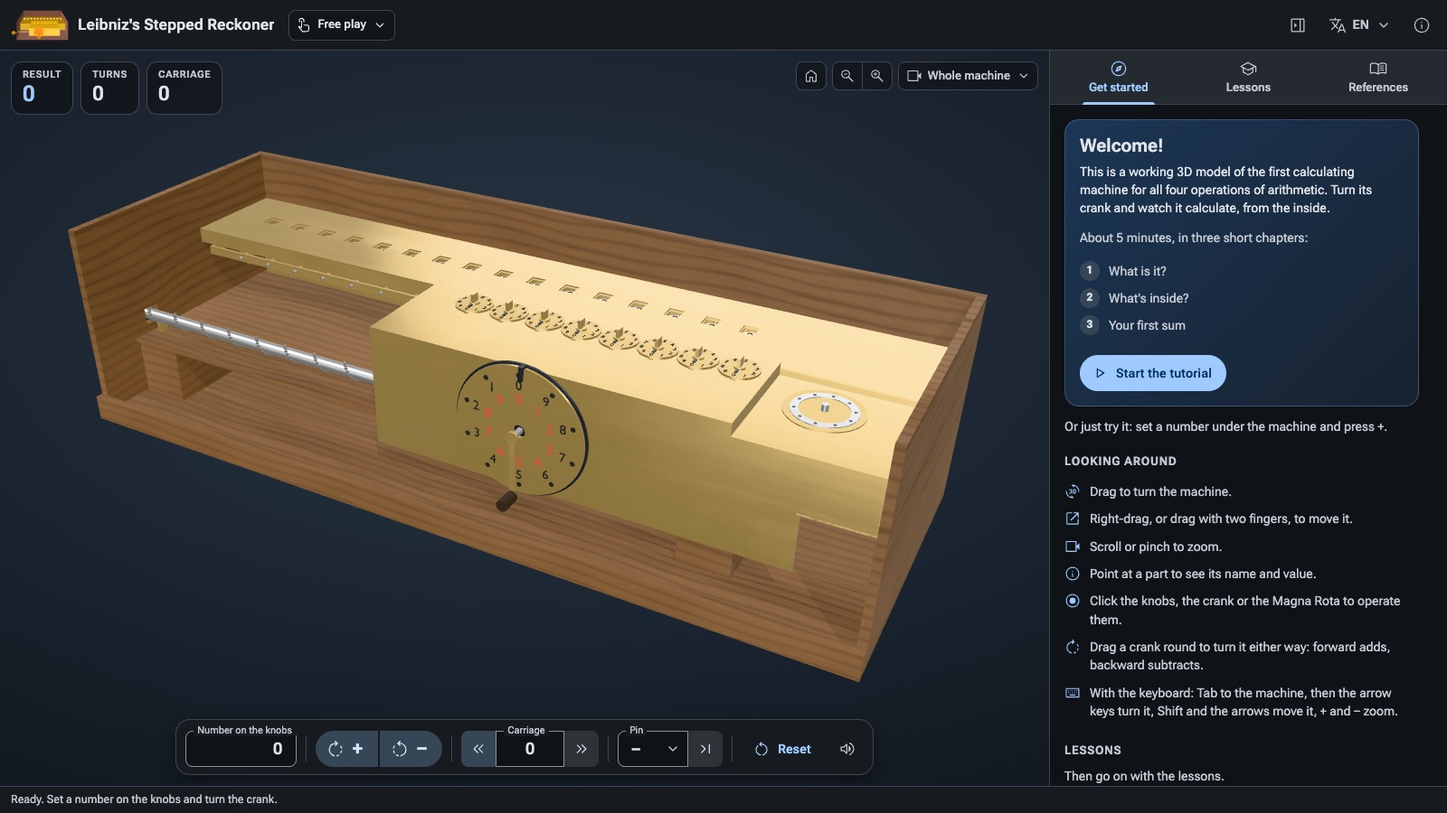
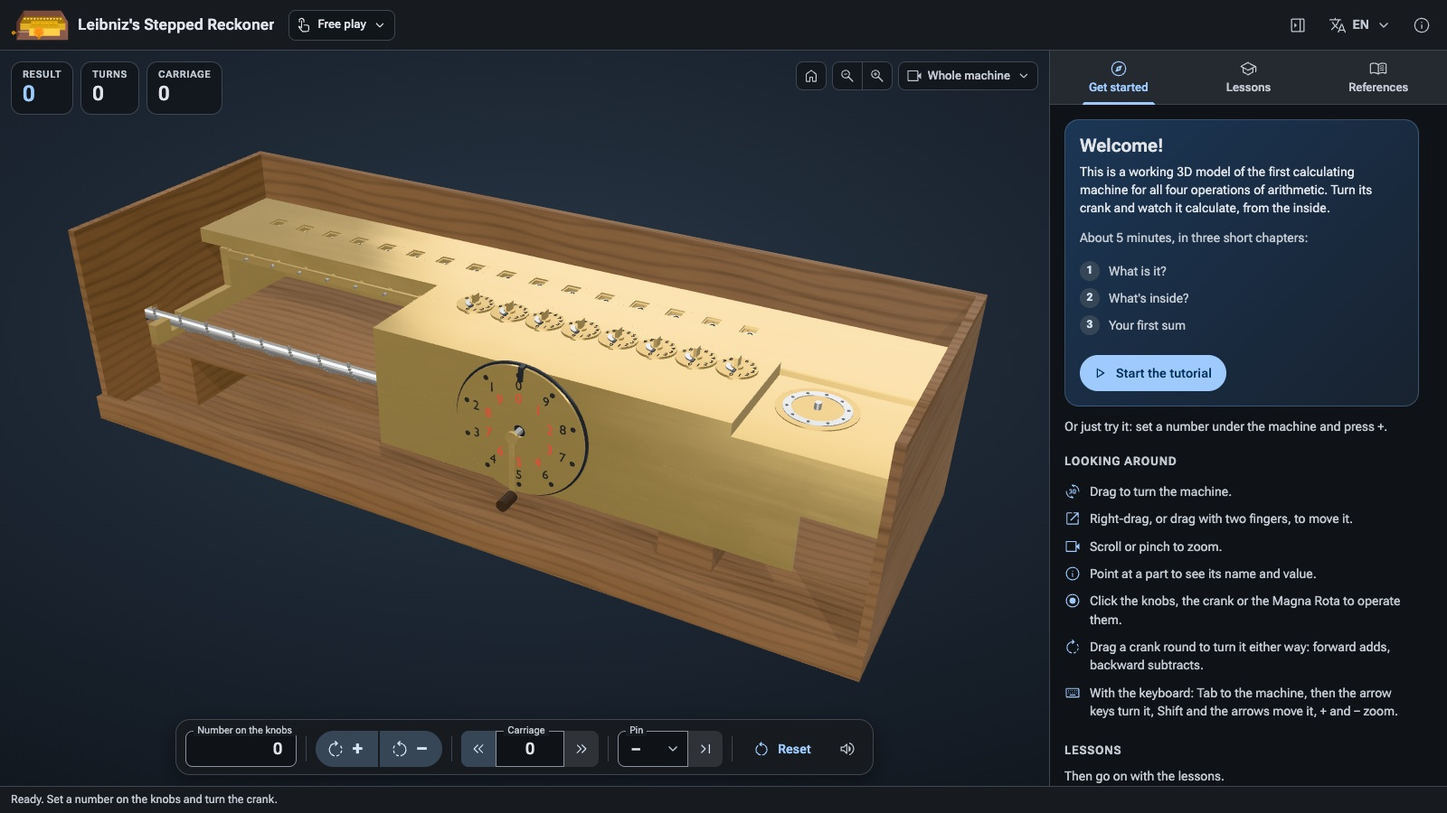
M4 phase 4: credit the drawings, retake the README's pictures
The About box says the main parts' sizes follow Lehmann's workshop
drawings of the Dresden replica and credits them as the archive asks,
"Deutsches Museum München, NL 183/465 and NL 183/466 PLAN"; the TU
Dresden reference says the model follows the replica's drawings. All
ten languages.

The README's six pictures are retaken with the new model. The release
shots were all checked: the views and lessons frame the shorter machine
as before. The plan, the report and the M4 notes record phases 1, 2
and 4 as done and phase 3 as waiting for /467; the changelog is
grouped for the release.

diff --git a/js/l10n/ja.js b/js/l10n/ja.js
@@ -153,7 +153,7 @@ export default {
   "ref.arithmeum.title": "アリトメウム（ボン）",
   "ref.arithmeum.desc": "計算の博物館。レプリカと機構の 3D アニメーションがあります。",
   "ref.tud.title": "ドレスデン工科大学",
-  "ref.tud.desc": "N. J. レーマンの研究に基づくレプリカ。このモデルはその写真と照合しました。",
+  "ref.tud.desc": "N. J. レーマンの研究に基づくレプリカ。このモデルはその工作図面に従い、写真と照合しました。",
   "ref.hnf.title": "ハインツ・ニクスドルフ・ミュージアムズフォーラム（パーダーボルン）",
   "ref.hnf.desc": "世界最大のコンピューター博物館による、ライプニッツと機械の紹介。",
   "ref.smg.title": "サイエンス・ミュージアム・グループ（ロンドン）",
@@ -180,9 +180,9 @@ export default {
   "about.title": "このアプリについて",
   "about.lead": "ライプニッツの段付き歯車式計算機（1700 年ごろ）のインタラクティブな 3D シミュレーター。四則演算すべてができた最初の計算機です。授業のために作られました。無料、オープン、インストール不要。",
   "about.version": "バージョン {v}",
-  "about.reconstruction": "これは復元です。機構と角度は文献に基づいていますが、多くの部品の寸法は推定で、数字は読みやすいように大きくしてあります。",
+  "about.reconstruction": "これは復元です。機構と角度は文献に、主要部品の寸法は N. J. レーマンによるドレスデンのレプリカの工作図面に基づいています。その他の寸法は推定で、数字は読みやすいように大きくしてあります。",
   "about.credits": "謝辞",
-  "about.credits.text": "調査とモデルは、A. ブルクハルトと W. ヨルダン（1897 年）、N. J. レーマンと M. ルートヴィヒ（ドレスデン工科大学）、E. シュタインと F. O. コップ（ライプニッツ大学ハノーファー）、K. バドゥアと W. ロットシュテット、ボンのアリトメウム、ゴットフリート・ヴィルヘルム・ライプニッツ図書館の成果に基づいています。参考写真はウィキメディア・コモンズの Dr. Bernd Gross、Plenuska、Eremeev、Wuselig、Jeremy Wolf、SchiDD、Barbarah、Hajotthu によるものです。",
+  "about.credits.text": "調査とモデルは、A. ブルクハルトと W. ヨルダン（1897 年）、N. J. レーマンと M. ルートヴィヒ（ドレスデン工科大学）、E. シュタインと F. O. コップ（ライプニッツ大学ハノーファー）、K. バドゥアと W. ロットシュテット、ボンのアリトメウム、ゴットフリート・ヴィルヘルム・ライプニッツ図書館の成果に基づいています。参考写真はウィキメディア・コモンズの Dr. Bernd Gross、Plenuska、Eremeev、Wuselig、Jeremy Wolf、SchiDD、Barbarah、Hajotthu によるものです。部品の寸法はレーマンの遺稿によります：Deutsches Museum München、NL 183/465、NL 183/466 PLAN。",
   "about.licences": "ライセンス",
   "about.licence.code": "コード：Apache License 2.0",
   "about.licence.content": "モデル、レッスン、文章：CC BY-SA 4.0",

diff --git a/js/l10n/ko.js b/js/l10n/ko.js
@@ -153,7 +153,7 @@ export default {
   "ref.arithmeum.title": "아리트메움, 본",
   "ref.arithmeum.desc": "계산 박물관. 복제품과 장치의 3D 애니메이션이 있습니다.",
   "ref.tud.title": "드레스덴 공과대학교",
-  "ref.tud.desc": "N. J. 레만의 연구를 바탕으로 만든 복제품. 이 모델은 그 사진과 대조했습니다.",
+  "ref.tud.desc": "N. J. 레만의 연구를 바탕으로 만든 복제품. 이 모델은 그 제작 도면을 따르고 사진과 대조했습니다.",
   "ref.hnf.title": "하인츠 닉스도르프 뮤지엄스포럼, 파더보른",
   "ref.hnf.desc": "세계 최대의 컴퓨터 박물관이 소개하는 라이프니츠와 그의 기계.",
   "ref.smg.title": "사이언스 뮤지엄 그룹, 런던",
@@ -180,9 +180,9 @@ export default {
   "about.title": "정보",
   "about.lead": "라이프니츠의 계단식 계산기(1700년 무렵)를 다루는 인터랙티브 3D 시뮬레이터. 사칙연산을 모두 할 수 있었던 최초의 계산 기계입니다. 수업을 위해 만들었습니다. 무료이고 개방되어 있으며 설치할 필요가 없습니다.",
   "about.version": "버전 {v}",
-  "about.reconstruction": "복원입니다. 장치와 각도는 문헌을 따르지만, 많은 부품의 치수는 추정이며 숫자는 읽기 쉽게 크게 만들었습니다.",
+  "about.reconstruction": "복원입니다. 장치와 각도는 문헌을, 주요 부품의 치수는 N. J. 레만이 그린 드레스덴 복제품의 제작 도면을 따릅니다. 그 밖의 치수는 추정이며 숫자는 읽기 쉽게 크게 만들었습니다.",
   "about.credits": "감사의 말",
-  "about.credits.text": "조사와 모델은 A. 부르크하르트와 W. 요르단(1897), N. J. 레만과 M. 루트비히(드레스덴 공과대학교), E. 슈타인과 F. O. 코프(하노버 라이프니츠 대학교), K. 바두어와 W. 로트슈테트, 본의 아리트메움, 고트프리트 빌헬름 라이프니츠 도서관의 연구를 바탕으로 합니다. 참고 사진은 위키미디어 공용의 Dr. Bernd Gross, Plenuska, Eremeev, Wuselig, Jeremy Wolf, SchiDD, Barbarah, Hajotthu가 찍었습니다.",
+  "about.credits.text": "조사와 모델은 A. 부르크하르트와 W. 요르단(1897), N. J. 레만과 M. 루트비히(드레스덴 공과대학교), E. 슈타인과 F. O. 코프(하노버 라이프니츠 대학교), K. 바두어와 W. 로트슈테트, 본의 아리트메움, 고트프리트 빌헬름 라이프니츠 도서관의 연구를 바탕으로 합니다. 참고 사진은 위키미디어 공용의 Dr. Bernd Gross, Plenuska, Eremeev, Wuselig, Jeremy Wolf, SchiDD, Barbarah, Hajotthu가 찍었습니다. 부품 치수는 레만의 유고에서 가져왔습니다: Deutsches Museum München, NL 183/465, NL 183/466 PLAN.",
   "about.licences": "라이선스",
   "about.licence.code": "코드: Apache License 2.0",
   "about.licence.content": "모델, 레슨, 글: CC BY-SA 4.0",

diff --git a/js/l10n/fr.js b/js/l10n/fr.js
@@ -153,7 +153,7 @@ export default {
   "ref.arithmeum.title": "Arithmeum, Bonn",
   "ref.arithmeum.desc": "Un musée du calcul, avec une réplique et une animation 3D du mécanisme.",
   "ref.tud.title": "Université technique de Dresde",
-  "ref.tud.desc": "La réplique construite d’après les recherches de N. J. Lehmann, dont les photos ont servi à vérifier ce modèle.",
+  "ref.tud.desc": "La réplique construite d’après les recherches de N. J. Lehmann. Ce modèle suit ses plans d’atelier et a été vérifié sur des photos de celle-ci.",
   "ref.hnf.title": "Heinz Nixdorf MuseumsForum, Paderborn",
   "ref.hnf.desc": "Le plus grand musée de l’informatique au monde, sur Leibniz et sa machine.",
   "ref.smg.title": "Science Museum Group, Londres",
@@ -180,9 +180,9 @@ export default {
   "about.title": "À propos",
   "about.lead": "Un simulateur 3D interactif de la machine à calculer de Leibniz (vers 1700), la première machine pour les quatre opérations de l’arithmétique. Conçu pour l’enseignement : gratuit, libre, sans installation.",
   "about.version": "Version {v}",
-  "about.reconstruction": "Une reconstitution : le mécanisme et ses angles suivent les sources ; beaucoup de dimensions sont estimées, et les chiffres sont agrandis pour la lecture.",
+  "about.reconstruction": "Une reconstitution : le mécanisme et ses angles suivent les sources, et les dimensions des pièces principales les plans d’atelier de N. J. Lehmann pour la réplique de Dresde ; les autres dimensions sont estimées, et les chiffres sont agrandis pour la lecture.",
   "about.credits": "Remerciements",
-  "about.credits.text": "Les recherches et le modèle s’appuient sur A. Burkhardt et W. Jordan (1897), N. J. Lehmann et M. Ludwig (université de Dresde), E. Stein et F. O. Kopp (université Leibniz de Hanovre), K. Badur et W. Rottstedt, l’Arithmeum de Bonn et la bibliothèque Gottfried Wilhelm Leibniz. Photographies de référence de Wikimedia Commons par Dr. Bernd Gross, Plenuska, Eremeev, Wuselig, Jeremy Wolf, SchiDD, Barbarah et Hajotthu.",
+  "about.credits.text": "Les recherches et le modèle s’appuient sur A. Burkhardt et W. Jordan (1897), N. J. Lehmann et M. Ludwig (université de Dresde), E. Stein et F. O. Kopp (université Leibniz de Hanovre), K. Badur et W. Rottstedt, l’Arithmeum de Bonn et la bibliothèque Gottfried Wilhelm Leibniz. Photographies de référence de Wikimedia Commons par Dr. Bernd Gross, Plenuska, Eremeev, Wuselig, Jeremy Wolf, SchiDD, Barbarah et Hajotthu. Dimensions des pièces tirées du fonds Lehmann : Deutsches Museum München, NL 183/465 et NL 183/466 PLAN.",
   "about.licences": "Licences",
   "about.licence.code": "Code : licence Apache 2.0",
   "about.licence.content": "Modèle, leçons et textes : CC BY-SA 4.0",

diff --git a/js/l10n/es.js b/js/l10n/es.js
@@ -153,7 +153,7 @@ export default {
   "ref.arithmeum.title": "Arithmeum, Bonn",
   "ref.arithmeum.desc": "Un museo del cálculo, con una réplica y una animación 3D del mecanismo.",
   "ref.tud.title": "Universidad Técnica de Dresde",
-  "ref.tud.desc": "La réplica construida según la investigación de N. J. Lehmann, con cuyas fotos se comprobó este modelo.",
+  "ref.tud.desc": "La réplica construida según la investigación de N. J. Lehmann. Este modelo sigue sus planos de taller y se comprobó con fotos de ella.",
   "ref.hnf.title": "Heinz Nixdorf MuseumsForum, Paderborn",
   "ref.hnf.desc": "El mayor museo de la informática del mundo, sobre Leibniz y su máquina.",
   "ref.smg.title": "Science Museum Group, Londres",
@@ -180,9 +180,9 @@ export default {
   "about.title": "Acerca de",
   "about.lead": "Un simulador 3D interactivo de la calculadora de Leibniz (hacia 1700), la primera máquina para las cuatro operaciones de la aritmética. Hecho para la enseñanza: gratuito, abierto y sin instalar nada.",
   "about.version": "Versión {v}",
-  "about.reconstruction": "Una reconstrucción: el mecanismo y sus ángulos siguen las fuentes; muchas medidas son estimaciones, y las cifras están agrandadas para leerlas mejor.",
+  "about.reconstruction": "Una reconstrucción: el mecanismo y sus ángulos siguen las fuentes, y las medidas de las piezas principales, los planos de taller de N. J. Lehmann para la réplica de Dresde; las demás medidas son estimaciones, y las cifras están agrandadas para leerlas mejor.",
   "about.credits": "Créditos",
-  "about.credits.text": "La investigación y el modelo se basan en A. Burkhardt y W. Jordan (1897), N. J. Lehmann y M. Ludwig (Universidad Técnica de Dresde), E. Stein y F. O. Kopp (Universidad Leibniz de Hannover), K. Badur y W. Rottstedt, el Arithmeum de Bonn y la Biblioteca Gottfried Wilhelm Leibniz. Fotografías de referencia de Wikimedia Commons de Dr. Bernd Gross, Plenuska, Eremeev, Wuselig, Jeremy Wolf, SchiDD, Barbarah y Hajotthu.",
+  "about.credits.text": "La investigación y el modelo se basan en A. Burkhardt y W. Jordan (1897), N. J. Lehmann y M. Ludwig (Universidad Técnica de Dresde), E. Stein y F. O. Kopp (Universidad Leibniz de Hannover), K. Badur y W. Rottstedt, el Arithmeum de Bonn y la Biblioteca Gottfried Wilhelm Leibniz. Fotografías de referencia de Wikimedia Commons de Dr. Bernd Gross, Plenuska, Eremeev, Wuselig, Jeremy Wolf, SchiDD, Barbarah y Hajotthu. Medidas de las piezas tomadas del legado de Lehmann: Deutsches Museum München, NL 183/465 y NL 183/466 PLAN.",
   "about.licences": "Licencias",
   "about.licence.code": "Código: licencia Apache 2.0",
   "about.licence.content": "Modelo, lecciones y textos: CC BY-SA 4.0",

diff --git a/js/l10n/pt-BR.js b/js/l10n/pt-BR.js
@@ -153,7 +153,7 @@ export default {
   "ref.arithmeum.title": "Arithmeum, Bonn",
   "ref.arithmeum.desc": "Um museu do cálculo, com uma réplica e uma animação 3D do mecanismo.",
   "ref.tud.title": "Universidade Técnica de Dresden",
-  "ref.tud.desc": "A réplica construída a partir da pesquisa de N. J. Lehmann, com cujas fotos este modelo foi conferido.",
+  "ref.tud.desc": "A réplica construída a partir da pesquisa de N. J. Lehmann. Este modelo segue seus desenhos de oficina e foi conferido com fotos dela.",
   "ref.hnf.title": "Heinz Nixdorf MuseumsForum, Paderborn",
   "ref.hnf.desc": "O maior museu de computação do mundo, sobre Leibniz e sua máquina.",
   "ref.smg.title": "Science Museum Group, Londres",
@@ -180,9 +180,9 @@ export default {
   "about.title": "Sobre",
   "about.lead": "Um simulador 3D interativo da calculadora de Leibniz (por volta de 1700), a primeira máquina para as quatro operações da aritmética. Feito para o ensino: gratuito, aberto e sem nada para instalar.",
   "about.version": "Versão {v}",
-  "about.reconstruction": "Uma reconstrução: o mecanismo e seus ângulos seguem as fontes; muitas medidas são estimadas, e os algarismos foram ampliados para facilitar a leitura.",
+  "about.reconstruction": "Uma reconstrução: o mecanismo e seus ângulos seguem as fontes, e as medidas das peças principais seguem os desenhos de oficina de N. J. Lehmann para a réplica de Dresden; as demais medidas são estimadas, e os algarismos foram ampliados para facilitar a leitura.",
   "about.credits": "Créditos",
-  "about.credits.text": "A pesquisa e o modelo se baseiam em A. Burkhardt e W. Jordan (1897), N. J. Lehmann e M. Ludwig (Universidade Técnica de Dresden), E. Stein e F. O. Kopp (Universidade Leibniz de Hanôver), K. Badur e W. Rottstedt, o Arithmeum de Bonn e a Biblioteca Gottfried Wilhelm Leibniz. Fotografias de referência do Wikimedia Commons de Dr. Bernd Gross, Plenuska, Eremeev, Wuselig, Jeremy Wolf, SchiDD, Barbarah e Hajotthu.",
+  "about.credits.text": "A pesquisa e o modelo se baseiam em A. Burkhardt e W. Jordan (1897), N. J. Lehmann e M. Ludwig (Universidade Técnica de Dresden), E. Stein e F. O. Kopp (Universidade Leibniz de Hanôver), K. Badur e W. Rottstedt, o Arithmeum de Bonn e a Biblioteca Gottfried Wilhelm Leibniz. Fotografias de referência do Wikimedia Commons de Dr. Bernd Gross, Plenuska, Eremeev, Wuselig, Jeremy Wolf, SchiDD, Barbarah e Hajotthu. Medidas das peças tiradas do acervo de Lehmann: Deutsches Museum München, NL 183/465 e NL 183/466 PLAN.",
   "about.licences": "Licenças",
   "about.licence.code": "Código: licença Apache 2.0",
   "about.licence.content": "Modelo, lições e textos: CC BY-SA 4.0",

diff --git a/js/l10n/it.js b/js/l10n/it.js
@@ -153,7 +153,7 @@ export default {
   "ref.arithmeum.title": "Arithmeum, Bonn",
   "ref.arithmeum.desc": "Un museo del calcolo, con una replica e un’animazione 3D del meccanismo.",
   "ref.tud.title": "Università tecnica di Dresda",
-  "ref.tud.desc": "La replica costruita in base alle ricerche di N. J. Lehmann, con le cui foto è stato verificato questo modello.",
+  "ref.tud.desc": "La replica costruita in base alle ricerche di N. J. Lehmann. Questo modello segue i suoi disegni d’officina ed è stato verificato con foto della replica.",
   "ref.hnf.title": "Heinz Nixdorf MuseumsForum, Paderborn",
   "ref.hnf.desc": "Il più grande museo dell’informatica al mondo, su Leibniz e la sua macchina.",
   "ref.smg.title": "Science Museum Group, Londra",
@@ -180,9 +180,9 @@ export default {
   "about.title": "Informazioni",
   "about.lead": "Un simulatore 3D interattivo della calcolatrice di Leibniz (circa 1700), la prima macchina per tutte e quattro le operazioni dell’aritmetica. Fatto per la scuola: gratuito, aperto, senza installare nulla.",
   "about.version": "Versione {v}",
-  "about.reconstruction": "Una ricostruzione: il meccanismo e i suoi angoli seguono le fonti; molte misure sono stime, e le cifre sono ingrandite per leggerle meglio.",
+  "about.reconstruction": "Una ricostruzione: il meccanismo e i suoi angoli seguono le fonti, e le misure dei pezzi principali i disegni d’officina di N. J. Lehmann per la replica di Dresda; le altre misure sono stime, e le cifre sono ingrandite per leggerle meglio.",
   "about.credits": "Ringraziamenti",
-  "about.credits.text": "Le ricerche e il modello si basano su A. Burkhardt e W. Jordan (1897), N. J. Lehmann e M. Ludwig (Università tecnica di Dresda), E. Stein e F. O. Kopp (Università Leibniz di Hannover), K. Badur e W. Rottstedt, l’Arithmeum di Bonn e la Biblioteca Gottfried Wilhelm Leibniz. Fotografie di riferimento da Wikimedia Commons di Dr. Bernd Gross, Plenuska, Eremeev, Wuselig, Jeremy Wolf, SchiDD, Barbarah e Hajotthu.",
+  "about.credits.text": "Le ricerche e il modello si basano su A. Burkhardt e W. Jordan (1897), N. J. Lehmann e M. Ludwig (Università tecnica di Dresda), E. Stein e F. O. Kopp (Università Leibniz di Hannover), K. Badur e W. Rottstedt, l’Arithmeum di Bonn e la Biblioteca Gottfried Wilhelm Leibniz. Fotografie di riferimento da Wikimedia Commons di Dr. Bernd Gross, Plenuska, Eremeev, Wuselig, Jeremy Wolf, SchiDD, Barbarah e Hajotthu. Misure dei pezzi dal fondo Lehmann: Deutsches Museum München, NL 183/465 e NL 183/466 PLAN.",
   "about.licences": "Licenze",
   "about.licence.code": "Codice: licenza Apache 2.0",
   "about.licence.content": "Modello, lezioni e testi: CC BY-SA 4.0",

diff --git a/js/l10n/zh-TW.js b/js/l10n/zh-TW.js
@@ -153,7 +153,7 @@ export default {
   "ref.arithmeum.title": "Arithmeum 計算博物館，波昂",
   "ref.arithmeum.desc": "一座關於計算的博物館，有複製品和機構的 3D 動畫。",
   "ref.tud.title": "德勒斯登工業大學",
-  "ref.tud.desc": "依據 N. J. Lehmann 的研究製作的複製品，本模型曾以它的照片核對。",
+  "ref.tud.desc": "依據 N. J. Lehmann 的研究製作的複製品。本模型依據它的工廠圖紙，並以它的照片核對。",
   "ref.hnf.title": "海因茨·尼克斯多夫博物館論壇，帕德博恩",
   "ref.hnf.desc": "世界最大的電腦博物館，介紹萊布尼茲和他的機器。",
   "ref.smg.title": "英國科學博物館集團，倫敦",
@@ -180,9 +180,9 @@ export default {
   "about.title": "關於",
   "about.lead": "萊布尼茲步進計算機（約 1700 年）的互動式 3D 模擬器。它是第一部能做全部四則運算的計算機器。為教學而做：免費、開放，不必安裝。",
   "about.version": "版本 {v}",
-  "about.reconstruction": "這是一個復原：機構與角度依據文獻；許多零件尺寸是估計的，數字為了方便閱讀而放大。",
+  "about.reconstruction": "這是一個復原：機構與角度依據文獻，主要零件的尺寸依據 N. J. Lehmann 為德勒斯登複製品繪製的工廠圖紙；其他尺寸是估計的，數字為了方便閱讀而放大。",
   "about.credits": "致謝",
-  "about.credits.text": "研究與模型依據 A. Burkhardt 與 W. Jordan（1897）、N. J. Lehmann 與 M. Ludwig（德勒斯登工業大學）、E. Stein 與 F. O. Kopp（漢諾威萊布尼茲大學）、K. Badur 與 W. Rottstedt、波昂 Arithmeum 博物館，以及戈特弗里德·威廉·萊布尼茲圖書館的工作。參考照片來自維基共享資源，作者為 Dr. Bernd Gross、Plenuska、Eremeev、Wuselig、Jeremy Wolf、SchiDD、Barbarah 和 Hajotthu。",
+  "about.credits.text": "研究與模型依據 A. Burkhardt 與 W. Jordan（1897）、N. J. Lehmann 與 M. Ludwig（德勒斯登工業大學）、E. Stein 與 F. O. Kopp（漢諾威萊布尼茲大學）、K. Badur 與 W. Rottstedt、波昂 Arithmeum 博物館，以及戈特弗里德·威廉·萊布尼茲圖書館的工作。參考照片來自維基共享資源，作者為 Dr. Bernd Gross、Plenuska、Eremeev、Wuselig、Jeremy Wolf、SchiDD、Barbarah 和 Hajotthu。零件尺寸取自 Lehmann 的遺稿：Deutsches Museum München，NL 183/465 與 NL 183/466 PLAN。",
   "about.licences": "授權",
   "about.licence.code": "程式碼：Apache License 2.0",
   "about.licence.content": "模型、課程與文字：CC BY-SA 4.0",

diff --git a/js/l10n/zh.js b/js/l10n/zh.js
@@ -153,7 +153,7 @@ export default {
   "ref.arithmeum.title": "Arithmeum 计算博物馆，波恩",
   "ref.arithmeum.desc": "一座关于计算的博物馆，有复制品和机构的 3D 动画。",
   "ref.tud.title": "德累斯顿工业大学",
-  "ref.tud.desc": "根据 N. J. Lehmann 的研究制作的复制品，本模型曾用它的照片核对。",
+  "ref.tud.desc": "根据 N. J. Lehmann 的研究制作的复制品。本模型依据它的车间图纸，并用它的照片核对。",
   "ref.hnf.title": "海因茨·尼克斯多夫博物馆论坛，帕德博恩",
   "ref.hnf.desc": "世界上最大的计算机博物馆，介绍莱布尼茨和他的机器。",
   "ref.smg.title": "英国科学博物馆集团，伦敦",
@@ -180,9 +180,9 @@ export default {
   "about.title": "关于",
   "about.lead": "莱布尼茨步进计算器（约 1700 年）的交互式 3D 模拟器。它是第一台能做全部四则运算的计算机器。为教学而做：免费、开放，无需安装。",
   "about.version": "版本 {v}",
-  "about.reconstruction": "这是一个复原：机构和角度依据文献；许多零件尺寸是估计的，数字为便于阅读而放大。",
+  "about.reconstruction": "这是一个复原：机构和角度依据文献，主要零件的尺寸依据 N. J. Lehmann 为德累斯顿复制品绘制的车间图纸；其他尺寸是估计的，数字为便于阅读而放大。",
   "about.credits": "致谢",
-  "about.credits.text": "研究和模型依据 A. Burkhardt 与 W. Jordan（1897）、N. J. Lehmann 与 M. Ludwig（德累斯顿工业大学）、E. Stein 与 F. O. Kopp（汉诺威莱布尼茨大学）、K. Badur 与 W. Rottstedt、波恩 Arithmeum 博物馆以及戈特弗里德·威廉·莱布尼茨图书馆的工作。参考照片来自维基共享资源，作者为 Dr. Bernd Gross、Plenuska、Eremeev、Wuselig、Jeremy Wolf、SchiDD、Barbarah 和 Hajotthu。",
+  "about.credits.text": "研究和模型依据 A. Burkhardt 与 W. Jordan（1897）、N. J. Lehmann 与 M. Ludwig（德累斯顿工业大学）、E. Stein 与 F. O. Kopp（汉诺威莱布尼茨大学）、K. Badur 与 W. Rottstedt、波恩 Arithmeum 博物馆以及戈特弗里德·威廉·莱布尼茨图书馆的工作。参考照片来自维基共享资源，作者为 Dr. Bernd Gross、Plenuska、Eremeev、Wuselig、Jeremy Wolf、SchiDD、Barbarah 和 Hajotthu。零件尺寸取自 Lehmann 的遗稿：Deutsches Museum München，NL 183/465 和 NL 183/466 PLAN。",
   "about.licences": "许可",
   "about.licence.code": "代码：Apache License 2.0",
   "about.licence.content": "模型、课程和文字：CC BY-SA 4.0",

diff --git a/js/l10n/en.js b/js/l10n/en.js
@@ -155,7 +155,7 @@ export default {
   "ref.arithmeum.title": "Arithmeum, Bonn",
   "ref.arithmeum.desc": "A museum of calculating, with a replica and a 3D animation of the mechanism.",
   "ref.tud.title": "Technische Universität Dresden",
-  "ref.tud.desc": "The replica built from N. J. Lehmann's research. This model was checked against photos of it.",
+  "ref.tud.desc": "The replica built from N. J. Lehmann's research. This model follows its workshop drawings and was checked against photos of it.",
   "ref.hnf.title": "Heinz Nixdorf MuseumsForum, Paderborn",
   "ref.hnf.desc": "The world's largest computer museum: its pages on Leibniz and his machine.",
   "ref.smg.title": "Science Museum Group, London",
@@ -182,9 +182,9 @@ export default {
   "about.title": "About",
   "about.lead": "An interactive 3D simulator of Leibniz's stepped reckoner (about 1700), the first calculating machine for all four operations of arithmetic. Made for teaching: free, open, and nothing to install.",
   "about.version": "Version {v}",
-  "about.reconstruction": "A reconstruction: the mechanism and its angles follow the sources; many part sizes are estimates, and the digits are enlarged for reading.",
+  "about.reconstruction": "A reconstruction: the mechanism and its angles follow the sources, and the main parts' sizes follow N. J. Lehmann's workshop drawings of the Dresden replica; other sizes are estimates, and the digits are enlarged for reading.",
   "about.credits": "Credits",
-  "about.credits.text": "The research and the model rely on A. Burkhardt and W. Jordan (1897), N. J. Lehmann and M. Ludwig (TU Dresden), E. Stein and F. O. Kopp (Leibniz Universität Hannover), K. Badur and W. Rottstedt, the Arithmeum Bonn and the Gottfried Wilhelm Leibniz Library. Reference photographs from Wikimedia Commons by Dr. Bernd Gross, Plenuska, Eremeev, Wuselig, Jeremy Wolf, SchiDD, Barbarah and Hajotthu.",
+  "about.credits.text": "The research and the model rely on A. Burkhardt and W. Jordan (1897), N. J. Lehmann and M. Ludwig (TU Dresden), E. Stein and F. O. Kopp (Leibniz Universität Hannover), K. Badur and W. Rottstedt, the Arithmeum Bonn and the Gottfried Wilhelm Leibniz Library. Reference photographs from Wikimedia Commons by Dr. Bernd Gross, Plenuska, Eremeev, Wuselig, Jeremy Wolf, SchiDD, Barbarah and Hajotthu. Part sizes from Lehmann's papers: Deutsches Museum München, NL 183/465 and NL 183/466 PLAN.",
   "about.licences": "Licences",
   "about.licence.code": "Code: Apache License 2.0",
   "about.licence.content": "Model, lessons and texts: CC BY-SA 4.0",

diff --git a/js/l10n/de.js b/js/l10n/de.js
@@ -153,7 +153,7 @@ export default {
   "ref.arithmeum.title": "Arithmeum, Bonn",
   "ref.arithmeum.desc": "Ein Museum des Rechnens, mit einem Nachbau und einer 3D-Animation der Mechanik.",
   "ref.tud.title": "Technische Universität Dresden",
-  "ref.tud.desc": "Der Nachbau nach N. J. Lehmanns Forschung; mit seinen Fotos wurde dieses Modell abgeglichen.",
+  "ref.tud.desc": "Der Nachbau nach N. J. Lehmanns Forschung. Dieses Modell folgt seinen Werkstattzeichnungen und wurde mit Fotos von ihm abgeglichen.",
   "ref.hnf.title": "Heinz Nixdorf MuseumsForum, Paderborn",
   "ref.hnf.desc": "Das größte Computermuseum der Welt, über Leibniz und seine Maschine.",
   "ref.smg.title": "Science Museum Group, London",
@@ -180,9 +180,9 @@ export default {
   "about.title": "Über",
   "about.lead": "Ein interaktiver 3D-Simulator der Rechenmaschine von Leibniz (um 1700), der ersten Maschine für alle vier Grundrechenarten. Für den Unterricht gemacht: kostenlos, offen und ohne Installation.",
   "about.version": "Version {v}",
-  "about.reconstruction": "Eine Rekonstruktion: Mechanik und Winkel folgen den Quellen; viele Maße sind geschätzt, und die Ziffern sind zum Lesen vergrößert.",
+  "about.reconstruction": "Eine Rekonstruktion: Mechanik und Winkel folgen den Quellen, die Maße der Hauptteile N. J. Lehmanns Werkstattzeichnungen des Dresdner Nachbaus; andere Maße sind geschätzt, und die Ziffern sind zum Lesen vergrößert.",
   "about.credits": "Dank",
-  "about.credits.text": "Recherche und Modell stützen sich auf A. Burkhardt und W. Jordan (1897), N. J. Lehmann und M. Ludwig (TU Dresden), E. Stein und F. O. Kopp (Leibniz Universität Hannover), K. Badur und W. Rottstedt, das Arithmeum Bonn und die Gottfried Wilhelm Leibniz Bibliothek. Referenzfotos von Wikimedia Commons von Dr. Bernd Gross, Plenuska, Eremeev, Wuselig, Jeremy Wolf, SchiDD, Barbarah und Hajotthu.",
+  "about.credits.text": "Recherche und Modell stützen sich auf A. Burkhardt und W. Jordan (1897), N. J. Lehmann und M. Ludwig (TU Dresden), E. Stein und F. O. Kopp (Leibniz Universität Hannover), K. Badur und W. Rottstedt, das Arithmeum Bonn und die Gottfried Wilhelm Leibniz Bibliothek. Referenzfotos von Wikimedia Commons von Dr. Bernd Gross, Plenuska, Eremeev, Wuselig, Jeremy Wolf, SchiDD, Barbarah und Hajotthu. Maße der Teile aus Lehmanns Nachlass: Deutsches Museum München, NL 183/465 und NL 183/466 PLAN.",
   "about.licences": "Lizenzen",
   "about.licence.code": "Code: Apache License 2.0",
   "about.licence.content": "Modell, Lektionen und Texte: CC BY-SA 4.0",

diff --git a/design/modelling-and-animation-plan.md b/design/modelling-and-animation-plan.md
@@ -1,6 +1,6 @@
 # Modelling and animation plan: Leibniz stepped reckoner (target B)
 
-- **Status:** M0–M2 done; M3 built, and redesigned for release 1.0.0 (2026-10-20, [docs/ui-design.md](../docs/ui-design.md)); M4 open. First written 2026-10-17.
+- **Status:** M0–M2 done; M3 built, and redesigned for release 1.0.0 (2026-10-20, [docs/ui-design.md](../docs/ui-design.md)); M4 phases 1, 2 and 4 done for release 1.1.0 (2026-10-29), phase 3 waits for NL 183/467. First written 2026-10-17.
 - **Inputs:** [`../research/REPORT.md`](../research/REPORT.md), [`../research/sources/notes-mechanism.md`](../research/sources/notes-mechanism.md), [`../params/machine.json`](../params/machine.json), [decision 0001](decisions/0001-carry-interpretation.md)
 - **Conventions:** [`docs/conventions.md`](../docs/conventions.md)
 
@@ -158,7 +158,7 @@ These must be planned now, because they change how the meshes are cut.
 | **M1: 3-digit carry slice** ✅ done 2026-10-17 ([notes](m1-notes.md)) | 3 digits plus Zweihörner, the drive gears and the sim logic (both carry modes). Step mode. **Acceptance-test harness** (glTF-in-Node, readout/contact/clearance checks, `?selftest`), retrofitted to M0 first. | 999 + 1 ripples in one turn (`ripple`) and needs extra idle turns (`historical`, 900 → 000 + carry → 1000). `pnpm test` runs the M0 and M1 acceptance specs (§10.1) and passes. |
 | **M2: full machine** ✅ done 2026-10-18 ([notes](m2-notes.md)): mechanism 2026-10-17; casing, photo overlay (carriage, Magna Rota, frame and case within 5 % of the photos) and materials 2026-10-18. Chromebook performance not measured yet. | 16-digit register, 8-digit carriage, Magna Rota with pin and stop, counter, lead screw and carriage shift, casing, materials | Every worked example animates correctly. Within the performance budget. Photo overlay within about 5 %. |
 | **M3: teaching layer** 🟡 built 2026-10-18 ([notes](m3-notes.md)), redesigned for release 1.0.0 on 2026-10-20 ([ui-design.md](../docs/ui-design.md)); teacher test, translation review and Chromebook measurement open | UI (EN/DE, then ten languages), camera presets, cut-away, exploded view, labels, guided lessons (9999 + 1, 1709 × 365, a division) | Usable by a teacher without instructions (to be tested with 1–2 teachers) |
-| **M4: fidelity upgrade (target C)** | Replace `est`/`design` params with documented values from NL 183 or the GWLB (§12). NL 183/465 received 2026-10-29; candidate values in [notes-nl183.md](../research/sources/notes-nl183.md) §10. Planned for v1.1.0 in [m4-notes.md](m4-notes.md). | Params mostly `doc`. Decision 0001 revisited. |
+| **M4: fidelity upgrade (target C)** ✅ phases 1, 2, 4 done 2026-10-29 ([notes](m4-notes.md)) | Replace `est`/`design` params with documented values from NL 183 or the GWLB (§12). NL 183/465 received 2026-10-29; candidate values in [notes-nl183.md](../research/sources/notes-nl183.md) §10. Release 1.1.0; phase 3 (Lehmann's lever arrangement) waits for /467. | Params mostly `doc`. Decision 0001 revisited. |
 
 M0 and M1 also prove the pipeline (params → Blender → glTF → three.js), which the later milestones reuse.
 
@@ -239,8 +239,9 @@ M2 design decisions:
 | A2-9 | Sampled clearance at the runtime transforms across add and subtract turns, carriage shifts and a multiplier run. | clearance |
 | A2-10 | The M0 and M1 specs still pass (shared-code regression). | regression |
 | A2-11 | A carry store holds one carry. With digit 8's carry waiting above the carriage and digits 0–8 at 9, a turn adding 1 is refused (nothing moves; store 8 stays at 18°). After a shift, an idle turn and the shift back, the same addition completes, and the register holds the exact value (2 000 000 000). | readout |
-| A2-12 | Casing: the oak case, the oak base and bearers, and the brass cover plates are static parts (the carriage cover rides with the carriage), so the page can hide them together. No woodwork sits outside them, so hiding them leaves only the mechanism. All 16 windows read through the cover openings at offsets 0 and 8. | readout |
+| A2-12 | Casing: the oak case, the oak base and bearers, and the brass cover plates are static parts (the carriage cover rides with the carriage), so the page can hide them together. No woodwork sits outside them, so hiding them leaves only the mechanism. All 16 windows read through the cover openings at offsets 0 and 8 (7 since M4). | readout |
 | A2-13 | Both cranks can be turned by hand. Over a full turn, at both carriage ends, the main crank's knob stays at least 10 mm above the case's front wall top and floor (room for fingers), and the end crank's knob stays above the table. Added 2026-10-18: the knob used to run in a 6 mm slot behind the front wall. | geometry |
+| A2-14 | No flickering faces. At rest at both carriage ends, no two parts (or two materials of one part) have overlapping faces in the same plane facing the same way, which the renderer cannot order (z-fighting). Added 2026-10-29: the carriage cover's end walls lay in the front panel's faces and flickered as the view moved, since v1.0.0. | geometry |
 
 #### M3: teaching layer
 

diff --git a/CHANGELOG.md b/CHANGELOG.md
@@ -4,12 +4,24 @@ What changed in each release. Versions follow `package.json` and are tagged `vX.
 
 ## Unreleased
 
-- The page's description (for search engines and the installed app) and `package.json`'s now say what the simulator is first, and name the lessons and the ten languages, as the GitHub repository's description does.
+The machine follows N. J. Lehmann's workshop drawings of the TU Dresden replica, kept in the Deutsches Museum's archive (NL 183/465 and NL 183/466 PLAN), where they fit the model ([design/m4-notes.md](design/m4-notes.md)).
+
+**The machine**
+- The digit pitch and the lead screw are 36.5 mm (37 before, from Burkhardt's description of the original).
+- The stepped drum is a 16-tooth module-2 wheel, 36 mm across, with its 9 ribs in 3.02 mm steps and a boss; the receiving gear has 10 pointed, profile-shifted teeth, 26.5 mm from the drum.
+- The setting dial has 13 divisions, the digits on ten of them, and a stop the knob's pointer meets at 0 and at 9; one digit moves the drum 3.02 mm, one rib.
+- The carriage has 8 positions, as on the replica: it shifts 7 places, so the 16th result digit is reached only by a carry.
+- The frame follows the drawings in length: side walls 610 mm apart with the lead screw running in them, the base 629 mm long, and the counter dial 73 mm right of the units knob.
+- The drive chain between the drums and the carry levers has the replica's gears: 10 teeth, 22.9 mm across and 7 mm wide, with a collar on each drum's gear.
+- The About box credits the drawings, and says which sizes follow them, in all ten languages.
+
+**Fixed**
+- A thin strip at the left end of the carriage's front panel flickered when the view moved (since 1.0.0): the end walls of the carriage cover lay in the panel's faces. They now start behind it, and a new acceptance check, A2-14, finds faces of two parts lying in one plane.
+
+**Tools and pages**
 - `pnpm shots` takes the release screenshots, the README's and a set for posts, in any of the languages ([docs/development.md](docs/development.md), *Versions and releases*).
 - `pnpm video` makes the release videos, with the machine's sound: taken apart, the drum, the carry, an addition and a multiplication, in any of the languages.
-- The model follows N. J. Lehmann's workshop drawings of the Dresden replica (Deutsches Museum, NL 183/465), first part ([design/m4-notes.md](design/m4-notes.md), phase 1): the digit pitch and the lead screw are 36.5 mm; the stepped drum is a 16-tooth module-2 wheel, 36 mm across, with 9 ribs in 3.02 mm steps and a boss; the receiving gear has 10 pointed, profile-shifted teeth, 26.5 mm from the drum; the setting dial has 13 divisions, the digits on ten of them, and a stop the knob's pointer meets at 0 and at 9.
-- The carriage has 8 positions, as on the replica: it shifts 7 places, so the 16th result digit is reached only by a carry. The frame follows the drawings in length: side walls 610 mm apart with the lead screw running in them, the base 629 mm long, and the counter dial 73 mm right of the units knob.
-- The drive chain between the drums and the carry levers has the replica's gears: 10 teeth, 22.9 mm across and 7 mm wide, with a collar on each drum's gear.
+- The page's description (for search engines and the installed app) and `package.json`'s now say what the simulator is first, and name the lessons and the ten languages, as the GitHub repository's description does.
 
 ## 1.0.0
 
